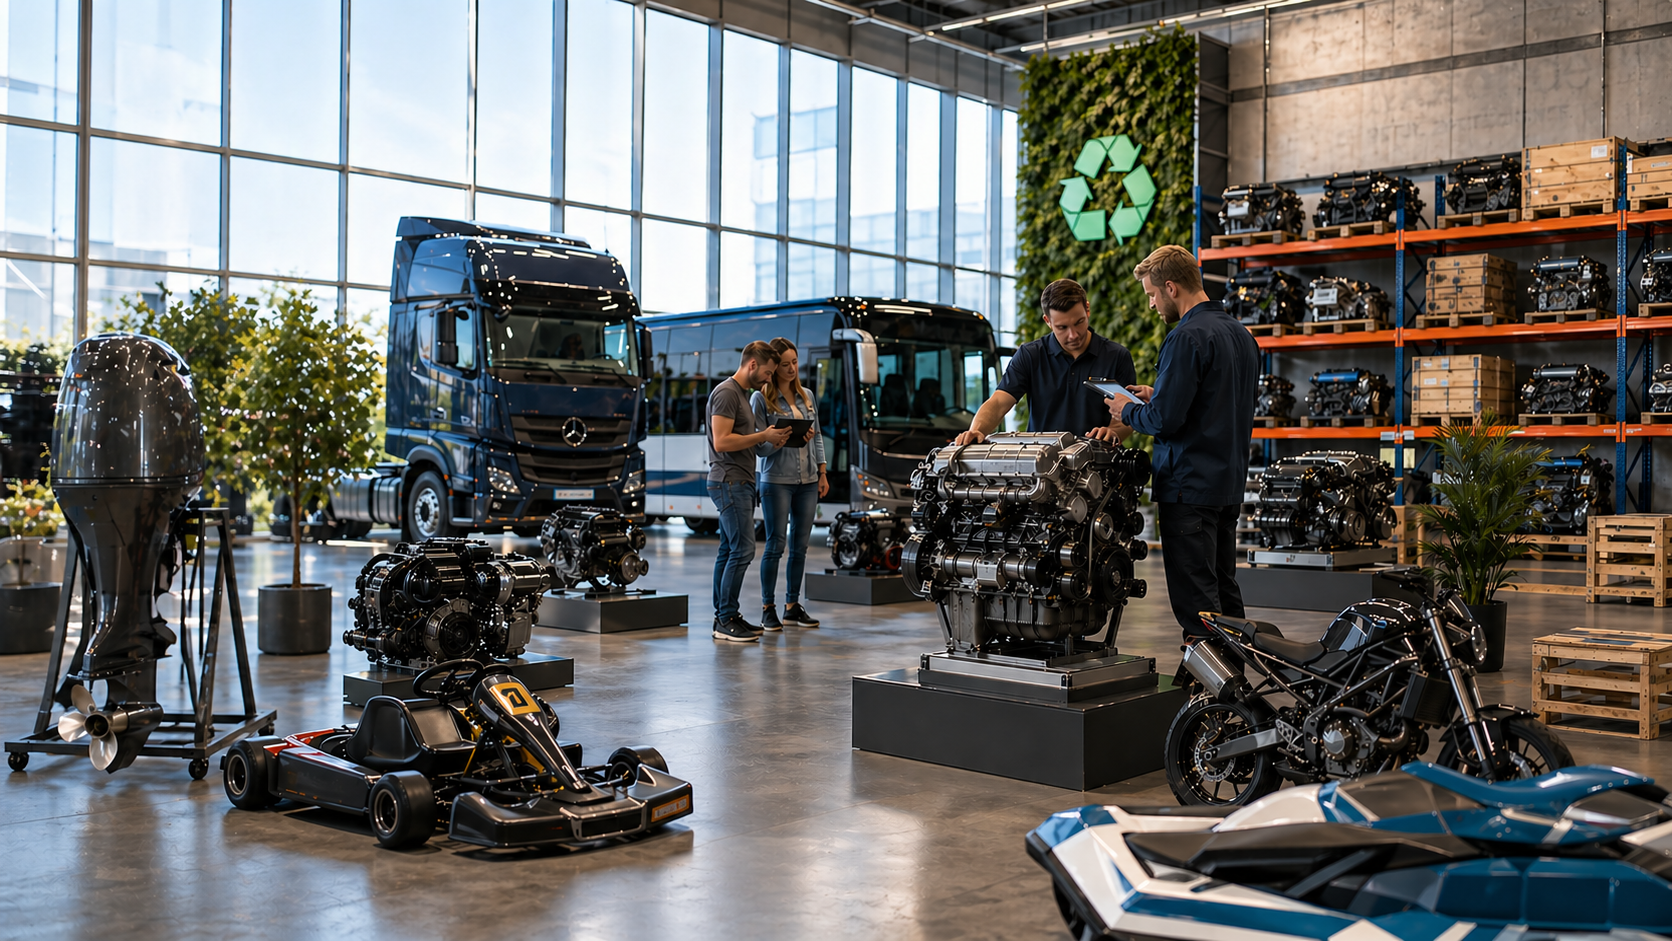
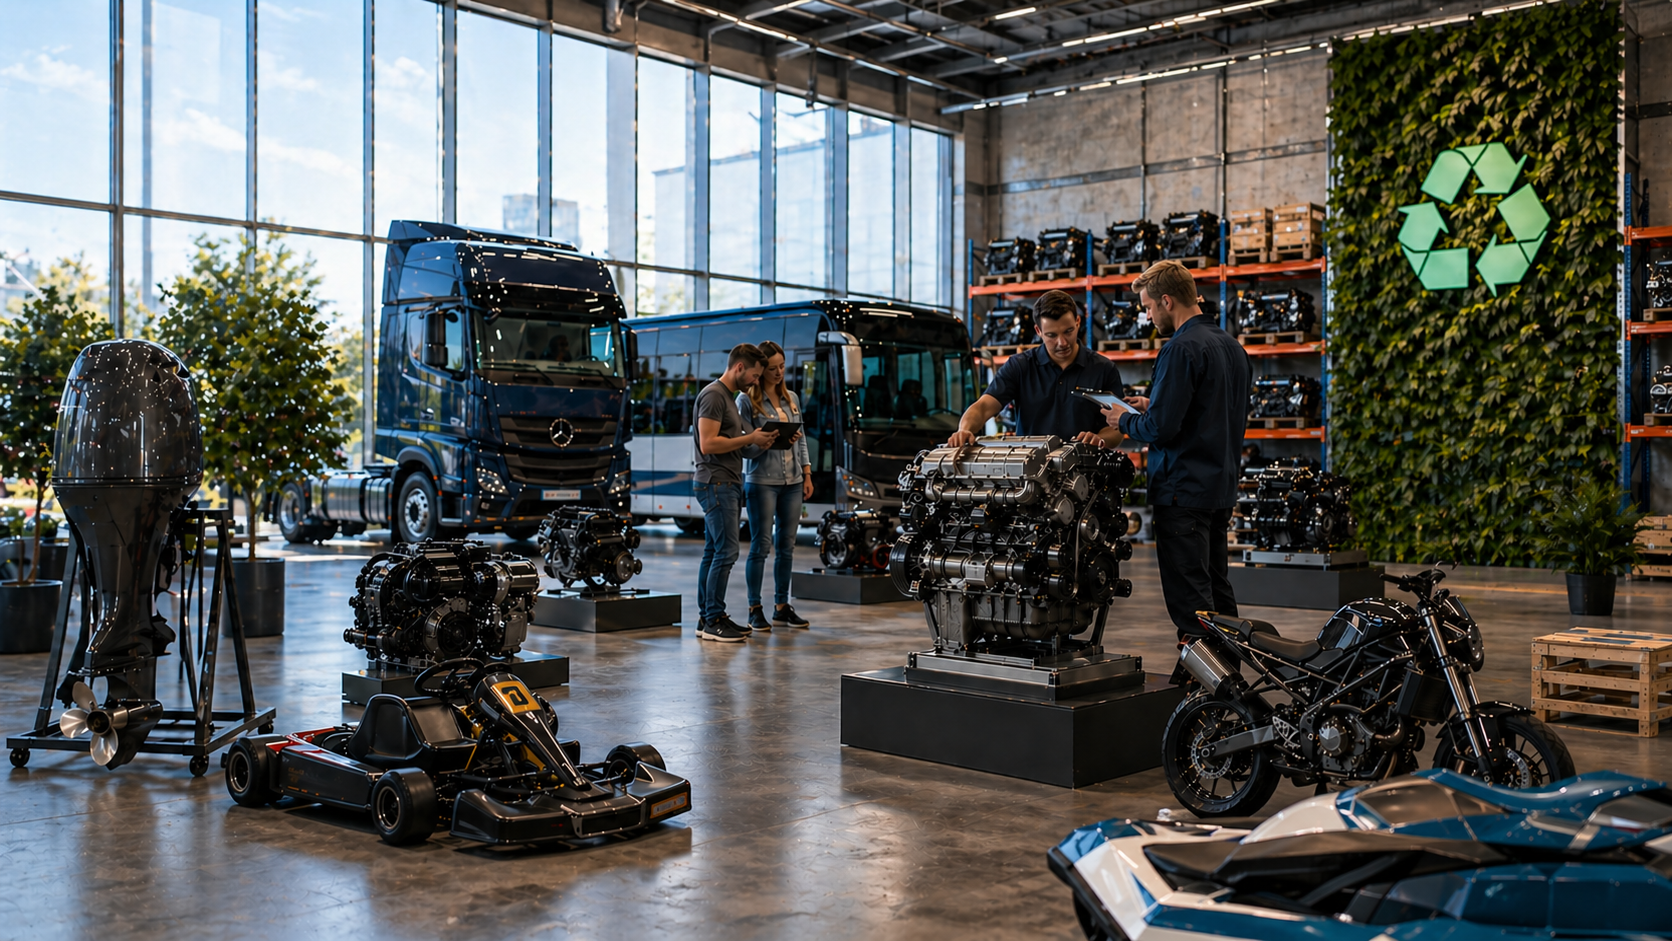
Add files via upload

diff --git a/index.html b/index.html
@@ -202,14 +202,19 @@
       padding: 80px 0 72px;
       position: relative; overflow: hidden;
     }
-    /* Hero Hintergrundbild */
+    /* Hero Hintergrundbild – Motorenhalle mit Recycling-Zeichen */
     .hero-bg {
       position: absolute; inset: 0;
       background-image: 
-        linear-gradient(to right, rgba(13,27,42,0.92) 0%, rgba(13,27,42,0.60) 40%, rgba(13,27,42,0.20) 100%),
+        linear-gradient(to right,
+          rgba(13,27,42,0.93) 0%,
+          rgba(13,27,42,0.75) 35%,
+          rgba(13,27,42,0.35) 62%,
+          rgba(13,27,42,0.10) 100%
+        ),
         url("hero-bg.png");
       background-size: cover;
-      background-position: center center;
+      background-position: 60% center;
       background-repeat: no-repeat;
       z-index: 0;
     }
